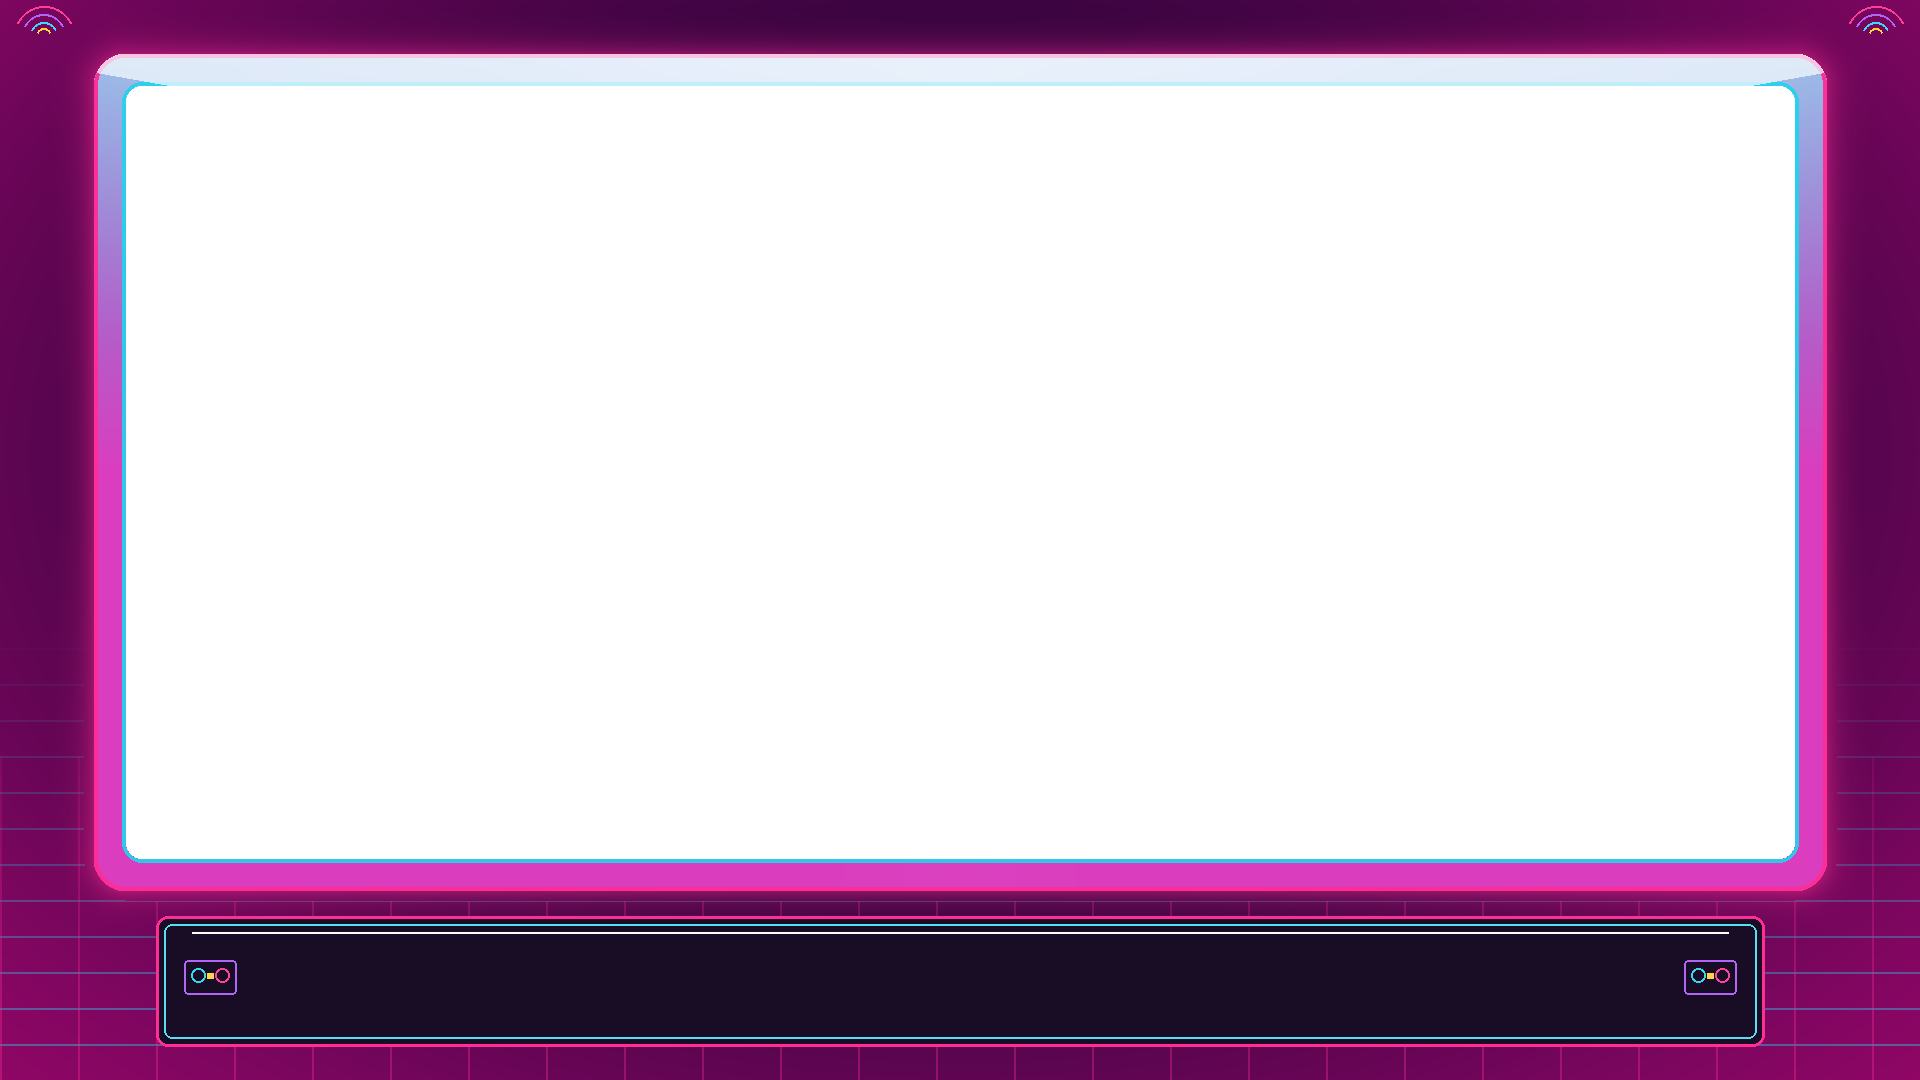
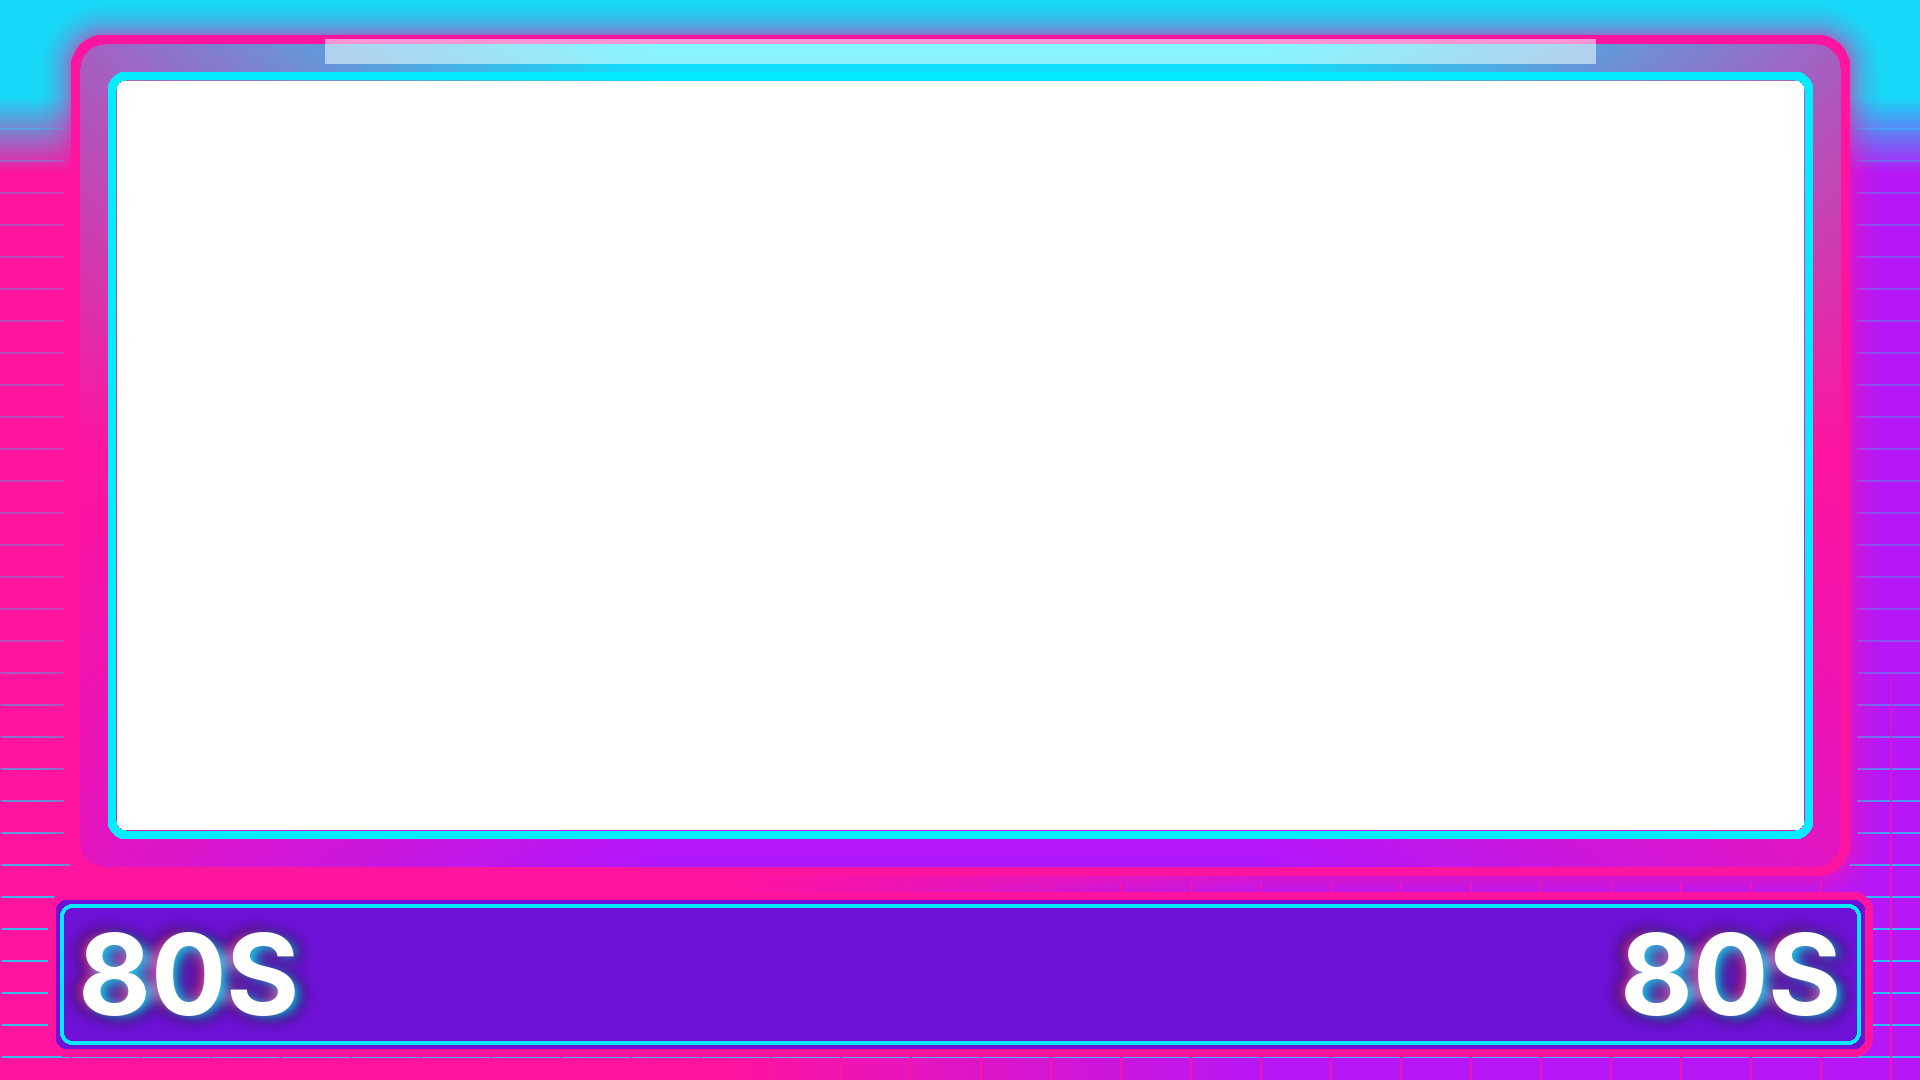
Make the Neon 80s frame louder and stamp 80S on the bar.
The border is hot pink, electric purple, and cyan, and the name bar carries 80S on both ends so the export stays clear of faces.

diff --git a/src/lib/capture/burnFrame.ts b/src/lib/capture/burnFrame.ts
@@ -213,6 +213,7 @@ function drawFrameCaption(
   y: number,
   color: string,
   rotateDeg = 0,
+  maxWidthFrac = 0.72,
 ) {
   ctx.save();
   ctx.translate(w / 2, h * y);
@@ -223,7 +224,7 @@ function drawFrameCaption(
   let size = Math.max(18, Math.round(h * 0.038));
   ctx.font = `600 ${size}px ui-sans-serif, system-ui, sans-serif`;
   const label = names.toUpperCase();
-  const maxWidth = w * 0.72;
+  const maxWidth = w * maxWidthFrac;
   while (size > 12 && ctx.measureText(label).width > maxWidth) {
     size -= 1;
     ctx.font = `600 ${size}px ui-sans-serif, system-ui, sans-serif`;
@@ -253,7 +254,16 @@ export function drawVideoWithFrame(
     coverImage(ctx, frame.image, width, height);
     const caption = frameCaptionLayout(frame.style);
     if (caption) {
-      drawFrameCaption(ctx, width, height, frame.names, caption.y, caption.color, caption.rotateDeg ?? 0);
+      drawFrameCaption(
+        ctx,
+        width,
+        height,
+        frame.names,
+        caption.y,
+        caption.color,
+        caption.rotateDeg ?? 0,
+        caption.maxWidth ?? 0.72,
+      );
     }
     return;
   }

diff --git a/src/lib/frames.ts b/src/lib/frames.ts
@@ -6,6 +6,8 @@ export interface FrameCaptionLayout {
   color: string;
   tracking: string;
   rotateDeg?: number;
+  /** Max name width as a fraction of the frame, so it stays off corner marks. */
+  maxWidth?: number;
 }
 
 export interface FrameStyleMeta {
@@ -93,7 +95,7 @@ export const FRAME_STYLES: FrameStyleMeta[] = [
   {
     id: "neon-80s",
     name: "Neon 80s",
-    description: "Synthwave bezel in hot pink, electric purple, and cyan",
+    description: "Hot neon pink, purple, and cyan, with 80 and S on the bar",
     assetSrc: "/frames/neon-80s.png",
     defaultAccent: "#FF2D95",
     rampProfile: "time-ramp-v1",
@@ -129,7 +131,7 @@ export function frameCaptionLayout(id?: FrameStyleId | string | null): FrameCapt
     return { y: 0.9, color: "#F4EFE4", tracking: "0.32em" };
   }
   if (id === "neon-80s") {
-    return { y: 0.91, color: "#F7FEFF", tracking: "0.22em" };
+    return { y: 0.902, color: "#F7FEFF", tracking: "0.16em", maxWidth: 0.4 };
   }
   return null;
 }

diff --git a/src/components/FrameOverlay.tsx b/src/components/FrameOverlay.tsx
@@ -38,6 +38,7 @@ export function FrameOverlay({
               top: `${caption.y * 100}%`,
               color: caption.color,
               letterSpacing: caption.tracking,
+              maxWidth: caption.maxWidth ? `${caption.maxWidth * 100}%` : undefined,
               transform: `translate(-50%, -50%)${caption.rotateDeg ? ` rotate(${caption.rotateDeg}deg)` : ""}`,
             }}
           >

diff --git a/scripts/generate-frame-packs.py b/scripts/generate-frame-packs.py
@@ -6,7 +6,7 @@ from __future__ import annotations
 from pathlib import Path
 
 import numpy as np
-from PIL import Image, ImageDraw, ImageFilter
+from PIL import Image, ImageDraw, ImageFilter, ImageFont
 
 W, H = 1920, 1080
 OUT = Path(__file__).resolve().parent.parent / "public" / "frames"
@@ -213,106 +213,94 @@ def black_tie_bar() -> Image.Image:
     return Image.fromarray(arr, "RGBA")
 
 
+NEON_FONT = "/usr/share/fonts/truetype/macos/Inter-Bold.ttf"
+PINK = np.array([255.0, 20.0, 160.0])
+PURPLE = np.array([176.0, 24.0, 255.0])
+CYAN = np.array([0.0, 236.0, 255.0])
+
+
+def neon_mark(img: Image.Image, text: str, x: int, y: int, size: int) -> None:
+    """White lettering with a hot-pink / cyan offset so it reads as neon."""
+    font = ImageFont.truetype(NEON_FONT, size)
+    glow = Image.new("RGBA", img.size, (0, 0, 0, 0))
+    pen = ImageDraw.Draw(glow)
+    pen.text((x - 7, y - 1), text, font=font, fill=(255, 45, 149, 255))
+    pen.text((x + 7, y + 3), text, font=font, fill=(0, 236, 255, 255))
+    img.alpha_composite(glow.filter(ImageFilter.GaussianBlur(7)))
+    ImageDraw.Draw(img).text((x, y), text, font=font, fill=(255, 255, 255, 255))
+
+
 def neon_80s() -> Image.Image:
-    """Synthwave bezel. Photo well stays clear; grid and motifs stay in the margin."""
+    """Saturated synthwave bezel. Photo well stays clear; 80 and S sit on the name bar."""
     yy, xx = np.mgrid[0:H, 0:W].astype(np.float32)
-    win_l, win_t, win_r, win_b = 96.0, 56.0, 1824.0, 888.0
+    win_l, win_t, win_r, win_b = 78.0, 42.0, 1842.0, 868.0
     cx = (win_l + win_r) / 2
     cy = (win_t + win_b) / 2
     hw = (win_r - win_l) / 2
     hh = (win_b - win_t) / 2
-    radius = 30.0
+    radius = 26.0
     outer = rounded_rect_sdf(xx, yy, cx, cy, hw, hh, radius)
-    inner = rounded_rect_sdf(xx, yy, cx, cy, hw - 28, hh - 28, max(8.0, radius - 12))
+    inner = rounded_rect_sdf(xx, yy, cx, cy, hw - 36, hh - 36, max(8.0, radius - 14))
 
-    nx = (xx - W / 2) / (W * 0.62)
-    ny = (yy - H * 0.42) / (H * 0.72)
-    rad = np.sqrt(nx * nx + ny * ny)
-    t = np.clip(rad, 0, 1)
-    rgb = np.zeros((H, W, 3), dtype=np.float32)
-    rgb[..., 0] = lerp(18, 72, t)
-    rgb[..., 1] = lerp(0, 6, t)
-    rgb[..., 2] = lerp(40, 78, t)
-    corner = np.clip(rad - 0.45, 0, 1) ** 1.2
-    rgb[..., 0] = np.clip(rgb[..., 0] + corner * 110, 0, 255)
-    rgb[..., 2] = np.clip(rgb[..., 2] + corner * 36, 0, 255)
+    u = xx / (W - 1)
+    v = yy / (H - 1)
+    # Pure hues: hot pink on the left, electric purple on the right, cyan along the top edge.
+    rgb = np.broadcast_to(PINK, (H, W, 3)).copy()
+    right = np.clip((u - 0.38) / 0.28, 0, 1)
+    rgb = lerp(rgb, PURPLE, right[..., None])
+    top_band = np.clip((0.16 - v) / 0.07, 0, 1)
+    rgb = lerp(rgb, CYAN, top_band[..., None])
 
-    # Horizon grid only outside the bezel, stronger toward the lower margin.
-    outside = outer > 12
-    horizon = np.clip((yy - H * 0.58) / (H * 0.36), 0, 1)
-    h_line = outside & (np.mod(yy, 36.0) < 1.35) & (horizon > 0.05)
-    v_line = outside & (yy > H * 0.7) & (np.mod(xx, 78.0) < 1.25)
-    cyan = np.array([34.0, 211.0, 238.0])
-    pink = np.array([255.0, 45.0, 149.0])
-    purple = np.array([168.0, 85.0, 247.0])
-    rgb = np.where(h_line[..., None], lerp(rgb, cyan, (0.42 * horizon)[..., None]), rgb)
-    rgb = np.where(v_line[..., None], lerp(rgb, pink, (0.34 * horizon)[..., None]), rgb)
+    outside = outer > 14
+    horizon = np.clip((yy - H * 0.45) / (H * 0.4), 0, 1)
+    h_line = outside & (np.mod(yy, 32.0) < 1.6)
+    v_line = outside & (yy > H * 0.62) & (np.mod(xx, 70.0) < 1.5)
+    rgb = np.where(h_line[..., None], lerp(rgb, CYAN, (0.85 * np.maximum(horizon, 0.35))[..., None]), rgb)
+    rgb = np.where(v_line[..., None], lerp(rgb, PINK, (0.8 * horizon)[..., None]), rgb)
 
-    bezel = (outer < 3) & (inner > -3)
+    bezel = (outer < 4) & (inner > -4)
+    # Pure neon around the well: cyan along the top, pink on the sides, purple along the bottom.
+    side = np.abs(xx - cx) / hw
     topness = np.clip(-(yy - cy) / hh, 0, 1)
-    metal = lerp(pink, purple, 0.42)
-    metal = lerp(metal, cyan, (topness * 0.62)[..., None])
-    spec = np.clip(0.08 + topness * 0.95 - np.abs((xx - cx) / hw) * 0.35, 0, 1) ** 1.35
-    chrome = np.array([248.0, 252.0, 255.0])
-    metal = lerp(metal, chrome, (spec * 0.62)[..., None])
+    bottomness = np.clip((yy - cy) / hh, 0, 1)
+    metal = np.broadcast_to(PINK, rgb.shape).copy()
+    metal = lerp(metal, CYAN, topness[..., None])
+    metal = lerp(metal, PURPLE, (bottomness * (1 - topness))[..., None])
+    metal = lerp(metal, PINK, np.clip(side - 0.35, 0, 1)[..., None])
     rgb = np.where(bezel[..., None], metal, rgb)
 
-    glow = np.exp(-np.clip(outer, 0, 48) * 0.075) * (outer > 1)
-    rgb = lerp(rgb, pink, (glow * 0.5)[..., None])
-
-    hair = (np.abs(inner) < 2.4) & (inner > -1.2)
-    rgb = np.where(hair[..., None], lerp(rgb, cyan, 0.92), rgb)
-    outer_hair = (np.abs(outer) < 2.6) & (outer > -1.2)
-    rgb = np.where(outer_hair[..., None], lerp(rgb, pink, 0.95), rgb)
-    streak = bezel & (yy < cy - hh * 0.55) & (spec > 0.55)
-    rgb = np.where(streak[..., None], lerp(rgb, chrome, 0.72), rgb)
+    glow = np.exp(-np.clip(outer, 0, 40) * 0.055) * (outer > 2)
+    rgb = lerp(rgb, PINK, (glow * 0.82)[..., None])
+    outer_hair = (np.abs(outer) < 8) & (outer > -2)
+    inner_hair = (np.abs(inner) < 7) & (inner > -2)
+    rgb = np.where(outer_hair[..., None], PINK, rgb)
+    rgb = np.where(inner_hair[..., None], CYAN, rgb)
+    streak = bezel & (yy < win_t + 22) & (np.abs(xx - cx) < hw * 0.72)
+    rgb = np.where(streak[..., None], lerp(rgb, np.array([245.0, 255.0, 255.0]), 0.55), rgb)
 
     alpha = np.full((H, W), 255, dtype=np.float32)
-    alpha = np.where(inner < -1.4, 0.0, alpha)
+    alpha = np.where(inner < -2.0, 0.0, alpha)
     img = Image.fromarray(np.dstack([np.clip(rgb, 0, 255), alpha]).astype(np.uint8), "RGBA")
     draw = ImageDraw.Draw(img)
 
-    def sunset(sx, sy, rads):
-        bands = (
-            (rads, (255, 45, 149, 235)),
-            (rads * 0.72, (168, 85, 247, 230)),
-            (rads * 0.46, (34, 211, 238, 220)),
-            (rads * 0.24, (250, 204, 21, 210)),
-        )
-        for band_r, color in bands:
-            draw.arc(
-                [sx - band_r, sy - band_r, sx + band_r, sy + band_r],
-                start=205,
-                end=335,
-                fill=color,
-                width=max(2, int(band_r * 0.09)),
-            )
-
-    sunset(44, 36, 30)
-    sunset(W - 44, 36, 30)
-
-    plaque = [156, 916, 1764, 1046]
-    draw.rounded_rectangle(plaque, radius=12, fill=(12, 0, 24, 242), outline=(255, 45, 149, 255), width=3)
+    plaque = [48, 892, 1872, 1056]
+    draw.rounded_rectangle(plaque, radius=18, fill=(109, 18, 214, 255), outline=(255, 20, 160, 255), width=8)
     draw.rounded_rectangle(
-        [plaque[0] + 8, plaque[1] + 8, plaque[2] - 8, plaque[3] - 8],
-        radius=8,
-        outline=(34, 211, 238, 190),
-        width=2,
-    )
-    draw.line(
-        [(plaque[0] + 36, plaque[1] + 16), (plaque[2] - 36, plaque[1] + 16)],
-        fill=(248, 252, 255, 110),
-        width=2,
+        [plaque[0] + 12, plaque[1] + 12, plaque[2] - 12, plaque[3] - 12],
+        radius=12,
+        outline=(0, 236, 255, 255),
+        width=4,
     )
 
-    def cassette(x, y):
-        draw.rounded_rectangle([x, y, x + 52, y + 34], radius=4, outline=(168, 85, 247, 230), width=2)
-        draw.ellipse([x + 7, y + 8, x + 21, y + 22], outline=(34, 211, 238, 230), width=2)
-        draw.ellipse([x + 31, y + 8, x + 45, y + 22], outline=(255, 45, 149, 230), width=2)
-        draw.rectangle([x + 23, y + 13, x + 29, y + 18], fill=(250, 204, 21, 200))
-
-    cassette(184, 960)
-    cassette(1684, 960)
+    word = "80S"
+    size = 112
+    font = ImageFont.truetype(NEON_FONT, size)
+    box = font.getbbox(word)
+    bar_mid = (plaque[1] + plaque[3]) / 2
+    word_y = int(bar_mid - (box[3] - box[1]) / 2 - box[1])
+    word_w = box[2] - box[0]
+    neon_mark(img, word, 78 - box[0], word_y, size)
+    neon_mark(img, word, 1920 - 78 - word_w - box[0], word_y, size)
     return img
 
 

diff --git a/README.md b/README.md
@@ -198,7 +198,7 @@ The original capture stays in IndexedDB. Guests who **Save to gallery** or fetch
 - **Polaroid stack**: warm instant-film border + stacked print (`/frames/polaroid-stack.png`), caption strip for couple names, accent `#F5F0E8`, gentle ramp
 - **Disco chrome**: silver bezel with specular highlights (`/frames/disco-chrome.png`), accent `#67E8F9`, livelier freeze ramp
 - **Black-tie bar**: matte black frame + ivory name plaque (`/frames/black-tie-bar.png`), accent `#0A0A0A`, gentle ramp
-- **Neon 80s**: synthwave bezel in hot pink, electric purple, and cyan with a chrome name bar (`/frames/neon-80s.png`), accent `#FF2D95` (same party magenta as the booth chrome), livelier freeze ramp
+- **Neon 80s**: saturated hot-pink, electric-purple, and cyan bezel with **80** and **S** on the name bar (`/frames/neon-80s.png`), accent `#FF2D95` (same party magenta as the booth chrome), livelier freeze ramp
 - Force-offline chip, mock battery, Camera OK / demo status
 
 **Simulated / stubbed (extension points)**
